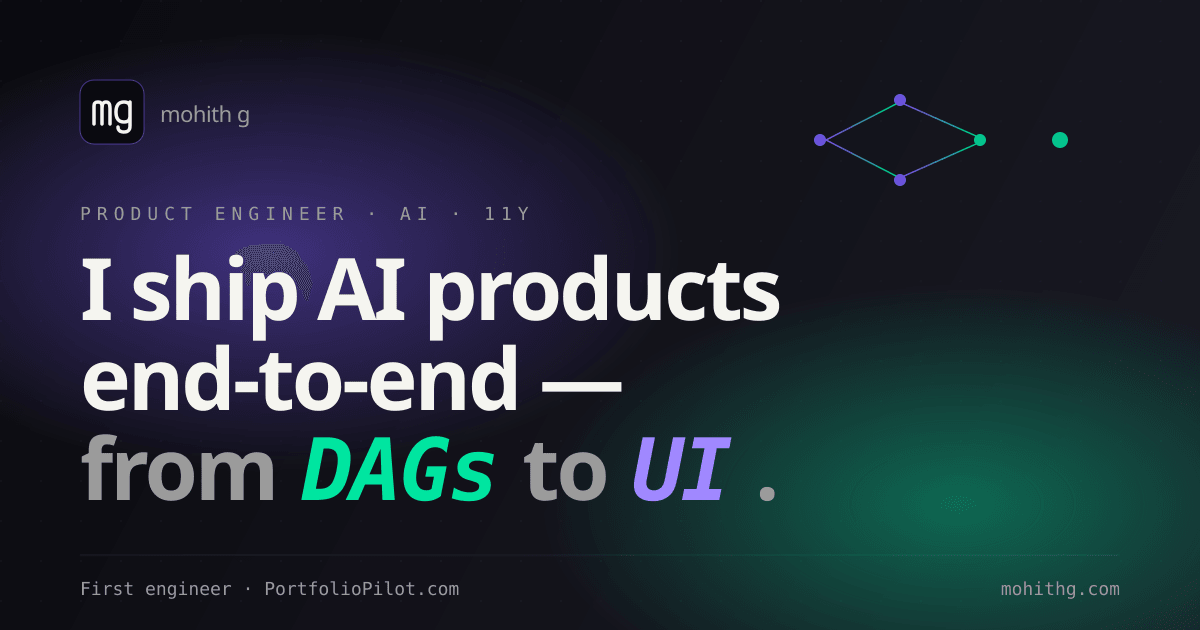
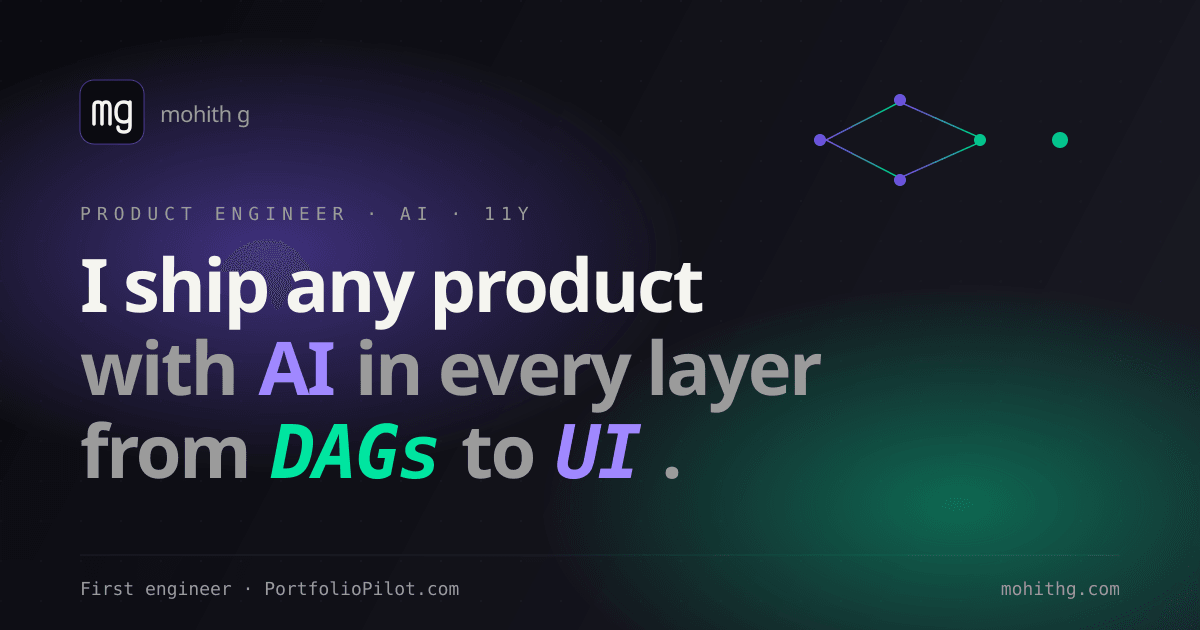
Reframe headline, reverse DAG, clean up placeholder labels
Headline + positioning (per Mohith):
- Hero: "I ship any product, with AI in every layer — from DAGs to UI."
  Replaces "AI products" framing — the message is now: he can ship any
  product, and AI runs through every layer (the build workflow AND the
  shipped output: agents, evals, AI features).
- Hero supporting: spells out the dual angle — "shipping AI agents in
  production AND using agents to ship faster than my old self ever could."
- /about: matching reframe in the intro and short version.
- site.ts long tagline + meta description + OG image regenerated.
- Hero: added Navya to the supporting paragraph as a linked previous role.

DAG (per Mohith):
- Reversed positions so Global Predictions is on the LEFT (x=100) and
  AthenaHealth on the RIGHT (x=1120). On mobile (where the SVG scrolls
  horizontally) visitors now see the current role first and swipe right
  to walk back through history.
- Updated legend caption: "← upstream tasks (the path that led here)"
  replaces the old "direction of time →".
- Initial scrollLeft=0 enforced via tiny inline script that runs on
  page-load and astro:page-load.

Cleanup:
- Replaced "/work/01" placeholders on selected-work cards with the actual
  case-study slug ("/work/portfoliopilot" etc.) for honest mono labels.
- Replaced "surface_01" placeholders on /what-i-build cards with their
  category id ("/ai", "/realtime", "/pipelines", "/frontend", etc.).

More motion physics:
[…]

Changed region(s): [[0.0617, 0.3619, 0.6783, 0.8143], [0.9558, 0.9952, 0.9867, 1.0]]

diff --git a/src/components/Chat/ChatWidget.tsx b/src/components/Chat/ChatWidget.tsx
@@ -1,4 +1,5 @@
 import { useEffect, useRef, useState } from 'react';
+import { motion, AnimatePresence } from 'motion/react';
 import { Send, Sparkles, X, ArrowUpRight } from 'lucide-react';
 import { match, fallbackText } from './match';
 import { SUGGESTED_QUESTIONS, QNA, type QnA } from '../../lib/qna';
@@ -130,31 +131,58 @@ export default function ChatWidget() {
   return (
     <>
       {/* Floating button */}
-      <button
-        type="button"
-        onClick={() => setOpen(true)}
-        aria-label="Chat with my career"
-        className="fixed bottom-5 right-5 z-30 inline-flex items-center gap-2 rounded-full border border-white/10 bg-ink-2/80 px-4 py-3 backdrop-blur-md transition-all hover:scale-105 hover:border-violet/40 hover:bg-ink-3/80 sm:bottom-7 sm:right-7"
-        style={{ display: open ? 'none' : undefined }}
-      >
-        <Sparkles className="h-4 w-4 text-violet-soft" />
-        <span className="hidden font-mono text-xs text-paper sm:inline">chat with my career</span>
-        <kbd className="hidden rounded border border-white/10 bg-white/5 px-1.5 py-0.5 font-mono text-[10px] text-paper-dim sm:inline">⌘ /</kbd>
-      </button>
+      <AnimatePresence>
+        {!open && (
+          <motion.button
+            key="chat-fab"
+            type="button"
+            onClick={() => setOpen(true)}
+            aria-label="Chat with my career"
+            initial={{ opacity: 0, y: 12, scale: 0.85 }}
+            animate={{ opacity: 1, y: 0, scale: 1 }}
+            exit={{ opacity: 0, y: 8, scale: 0.85 }}
+            whileHover={{ scale: 1.05, transition: { type: 'spring', stiffness: 400, damping: 22 } }}
+            whileTap={{ scale: 0.95 }}
+            transition={{ type: 'spring', stiffness: 320, damping: 24 }}
+            className="fixed bottom-5 right-5 z-30 inline-flex items-center gap-2 rounded-full border border-white/10 bg-ink-2/80 px-4 py-3 backdrop-blur-md transition-colors hover:border-violet/40 hover:bg-ink-3/80 sm:bottom-7 sm:right-7"
+          >
+            <motion.span
+              animate={{ rotate: [0, 12, -8, 0] }}
+              transition={{ duration: 3.5, repeat: Infinity, ease: 'easeInOut', repeatDelay: 1.5 }}
+            >
+              <Sparkles className="h-4 w-4 text-violet-soft" />
+            </motion.span>
+            <span className="hidden font-mono text-xs text-paper sm:inline">chat with my career</span>
+            <kbd className="hidden rounded border border-white/10 bg-white/5 px-1.5 py-0.5 font-mono text-[10px] text-paper-dim sm:inline">⌘ /</kbd>
+          </motion.button>
+        )}
+      </AnimatePresence>
 
       {/* Panel */}
-      {open && (
-        <>
-          <div
-            className="fixed inset-0 z-40 bg-ink/40 backdrop-blur-sm"
-            onClick={() => setOpen(false)}
-            aria-hidden="true"
-          />
-          <aside
-            role="dialog"
-            aria-label="Chat with my career"
-            className="fixed bottom-0 right-0 z-50 flex h-[min(640px,90dvh)] w-full max-w-md flex-col overflow-hidden border-white/10 bg-ink-2 shadow-2xl sm:bottom-5 sm:right-5 sm:rounded-2xl sm:border"
-          >
+      <AnimatePresence>
+        {open && (
+          <>
+            <motion.div
+              key="chat-overlay"
+              initial={{ opacity: 0 }}
+              animate={{ opacity: 1 }}
+              exit={{ opacity: 0 }}
+              transition={{ duration: 0.25 }}
+              className="fixed inset-0 z-40 bg-ink/40 backdrop-blur-sm"
+              onClick={() => setOpen(false)}
+              aria-hidden="true"
+            />
+            <motion.aside
+              key="chat-panel"
+              role="dialog"
+              aria-label="Chat with my career"
+              initial={{ opacity: 0, y: 32, scale: 0.92 }}
+              animate={{ opacity: 1, y: 0, scale: 1 }}
+              exit={{ opacity: 0, y: 24, scale: 0.94 }}
+              transition={{ type: 'spring', stiffness: 320, damping: 28, mass: 0.8 }}
+              style={{ transformOrigin: 'bottom right' }}
+              className="fixed bottom-0 right-0 z-50 flex h-[min(640px,90dvh)] w-full max-w-md flex-col overflow-hidden border-white/10 bg-ink-2 shadow-2xl sm:bottom-5 sm:right-5 sm:rounded-2xl sm:border"
+            >
             {/* Header */}
             <header className="relative isolate flex items-center justify-between border-b border-white/10 px-4 py-3">
               <div className="pointer-events-none absolute inset-0 -z-10 opacity-50">
@@ -183,7 +211,13 @@ export default function ChatWidget() {
             {/* Messages */}
             <div ref={scrollRef} className="flex-1 space-y-4 overflow-y-auto px-4 py-5">
               {msgs.map((m) => (
-                <div key={m.id} className={`flex ${m.role === 'user' ? 'justify-end' : 'justify-start'}`}>
+                <motion.div
+                  key={m.id}
+                  initial={{ opacity: 0, y: 8, scale: 0.98 }}
+                  animate={{ opacity: 1, y: 0, scale: 1 }}
+                  transition={{ type: 'spring', stiffness: 380, damping: 26 }}
+                  className={`flex ${m.role === 'user' ? 'justify-end' : 'justify-start'}`}
+                >
                   <div
                     className={
                       m.role === 'user'
@@ -227,7 +261,7 @@ export default function ChatWidget() {
                       </div>
                     )}
                   </div>
-                </div>
+                </motion.div>
               ))}
 
               {msgs.length === 1 && (
@@ -277,9 +311,10 @@ export default function ChatWidget() {
                 no API keys, no costs · matches against a curated answer bank
               </p>
             </form>
-          </aside>
-        </>
-      )}
+            </motion.aside>
+          </>
+        )}
+      </AnimatePresence>
     </>
   );
 }

diff --git a/src/components/motion/MagneticCTA.tsx b/src/components/motion/MagneticCTA.tsx
@@ -1,0 +1,66 @@
+import { motion, useMotionValue, useSpring, useReducedMotion, type HTMLMotionProps } from 'motion/react';
+import { useRef, type ReactNode } from 'react';
+
+type Props = {
+  children: ReactNode;
+  strength?: number;
+  className?: string;
+  href?: string;
+  onClick?: () => void;
+  type?: 'button' | 'submit';
+  ariaLabel?: string;
+};
+
+// Magnetic CTA with spring physics: the button drifts toward the cursor
+// when nearby and snaps back on leave. Heavier feel than CSS lerp.
+export default function MagneticCTA({
+  children,
+  strength = 0.28,
+  className = '',
+  href,
+  onClick,
+  type = 'button',
+  ariaLabel,
+}: Props) {
+  const reduce = useReducedMotion();
+  const ref = useRef<HTMLAnchorElement | HTMLButtonElement>(null);
+  const x = useMotionValue(0);
+  const y = useMotionValue(0);
+  const sx = useSpring(x, { stiffness: 180, damping: 14, mass: 0.4 });
+  const sy = useSpring(y, { stiffness: 180, damping: 14, mass: 0.4 });
+
+  const onMove = (e: React.MouseEvent) => {
+    if (reduce || !ref.current) return;
+    const r = ref.current.getBoundingClientRect();
+    const cx = r.left + r.width / 2;
+    const cy = r.top + r.height / 2;
+    x.set((e.clientX - cx) * strength);
+    y.set((e.clientY - cy) * strength);
+  };
+  const onLeave = () => {
+    x.set(0);
+    y.set(0);
+  };
+
+  const common: HTMLMotionProps<'a'> & HTMLMotionProps<'button'> = {
+    style: { x: sx, y: sy } as any,
+    onMouseMove: onMove,
+    onMouseLeave: onLeave,
+    whileTap: reduce ? undefined : { scale: 0.97 },
+    className,
+    'aria-label': ariaLabel,
+  } as any;
+
+  if (href) {
+    return (
+      <motion.a ref={ref as any} href={href} {...(common as HTMLMotionProps<'a'>)}>
+        {children}
+      </motion.a>
+    );
+  }
+  return (
+    <motion.button ref={ref as any} type={type} onClick={onClick} {...(common as HTMLMotionProps<'button'>)}>
+      {children}
+    </motion.button>
+  );
+}

diff --git a/src/components/motion/SpringCard.tsx b/src/components/motion/SpringCard.tsx
@@ -1,0 +1,63 @@
+import { motion, useReducedMotion } from 'motion/react';
+import type { ReactNode } from 'react';
+
+type Accent = 'violet' | 'mint' | 'pink';
+
+type Props = {
+  children: ReactNode;
+  index?: number;
+  accent?: Accent;
+  className?: string;
+  glow?: boolean;
+  lift?: boolean;
+  id?: string;
+};
+
+const ACCENT_RGB: Record<Accent, string> = {
+  violet: 'var(--color-violet)',
+  mint: 'var(--color-mint)',
+  pink: 'var(--color-pink)',
+};
+
+// A reusable Motion-powered card: spring entrance from below, hover lift
+// with spring physics, optional cursor-glow.
+export default function SpringCard({
+  children,
+  index = 0,
+  accent = 'violet',
+  className = '',
+  glow = true,
+  lift = true,
+  id,
+}: Props) {
+  const reduce = useReducedMotion();
+  return (
+    <motion.div
+      id={id}
+      data-glow={glow ? '' : undefined}
+      style={glow ? { ['--glow-color' as string]: ACCENT_RGB[accent] } : undefined}
+      initial={reduce ? false : { opacity: 0, y: 36, scale: 0.96 }}
+      whileInView={{ opacity: 1, y: 0, scale: 1 }}
+      viewport={{ once: true, margin: '0px 0px -8% 0px' }}
+      transition={{
+        type: 'spring',
+        stiffness: 220,
+        damping: 24,
+        mass: 0.7,
+        delay: Math.min(index, 6) * 0.06,
+      }}
+      whileHover={
+        reduce || !lift
+          ? undefined
+          : {
+              y: -4,
+              scale: 1.01,
+              transition: { type: 'spring', stiffness: 300, damping: 22 },
+            }
+      }
+      className={className}
+    >
+      {children}
+    </motion.div>
+  );
+}

diff --git a/src/components/motion/StatCounter.tsx b/src/components/motion/StatCounter.tsx
@@ -1,0 +1,38 @@
+import { useEffect, useRef } from 'react';
+import { animate, useInView, useMotionValue, useTransform, useReducedMotion } from 'motion/react';
+
+type Props = {
+  to: number;
+  suffix?: string;
+  duration?: number;
+};
+
+// Counts from 0 to `to` with spring smoothing when scrolled into view.
+export default function StatCounter({ to, suffix = '', duration = 1.6 }: Props) {
+  const ref = useRef<HTMLSpanElement>(null);
+  const inView = useInView(ref, { once: true, amount: 0.6 });
+  const v = useMotionValue(0);
+  const display = useTransform(v, (n) => Math.round(n).toString() + suffix);
+  const reduce = useReducedMotion();
+
+  useEffect(() => {
+    if (!inView) return;
+    if (reduce) {
+      v.set(to);
+      return;
+    }
+    const ctl = animate(v, to, {
+      duration,
+      ease: [0.16, 1, 0.3, 1],
+    });
+    return () => ctl.stop();
+  }, [inView, reduce, to, duration, v]);
+
+  useEffect(() => {
+    return display.on('change', (s) => {
+      if (ref.current) ref.current.textContent = s;
+    });
+  }, [display]);
+
+  return <span ref={ref}>0{suffix}</span>;
+}

diff --git a/src/lib/site.ts b/src/lib/site.ts
@@ -11,10 +11,10 @@ export const SITE = {
   twitter: 'https://twitter.com/mohithgm',
   location: 'Bengaluru, India',
   timezone: 'Asia/Kolkata',
-  tagline: 'Product Engineer for AI products',
-  longTagline: 'I ship full-stack AI products end-to-end — from DAGs to UI.',
+  tagline: 'Product Engineer · ships any product, with AI in every layer',
+  longTagline: 'I ship any product — with AI in every layer, from DAGs to UI.',
   description:
-    'Mohith G is an AI Product Engineer with 11+ years building products at YC-backed startups. Currently first engineer at PortfolioPilot. Previously founding engineer at IntuitionAI (acquired by Domino Data Lab), Rippling, AthenaHealth.',
+    'Mohith G is a Product Engineer with 11+ years building products at YC-backed startups. Today he ships AI agents in production at PortfolioPilot — and uses agents to ship them faster. Previously founding engineer at IntuitionAI (acquired by Domino Data Lab), and shipped early at Navya, Rippling, AthenaHealth.',
   ogImage: '/og/default.png',
 } as const;
 

diff --git a/src/components/sections/WorkCard.tsx b/src/components/sections/WorkCard.tsx
@@ -11,7 +11,7 @@ type Props = {
   accent: Accent;
   metric: string;
   metricLabel: string;
-  workIndex: number;
+  slug: string;
   start: string;
   end: string;
   role: string;
@@ -68,7 +68,7 @@ export default function WorkCard(props: Props): ReactNode {
       <div className="grid gap-8 sm:grid-cols-12 sm:items-start">
         <div className="sm:col-span-3">
           <p className="font-mono text-xs uppercase tracking-[0.3em] text-paper-muted">
-            /work/{String(props.workIndex).padStart(2, '0')}
+            /work/{props.slug}
           </p>
           <p className={`mt-4 font-display text-5xl font-semibold tracking-tight sm:text-6xl ${accentText[accent]}`}>
             {props.metric}